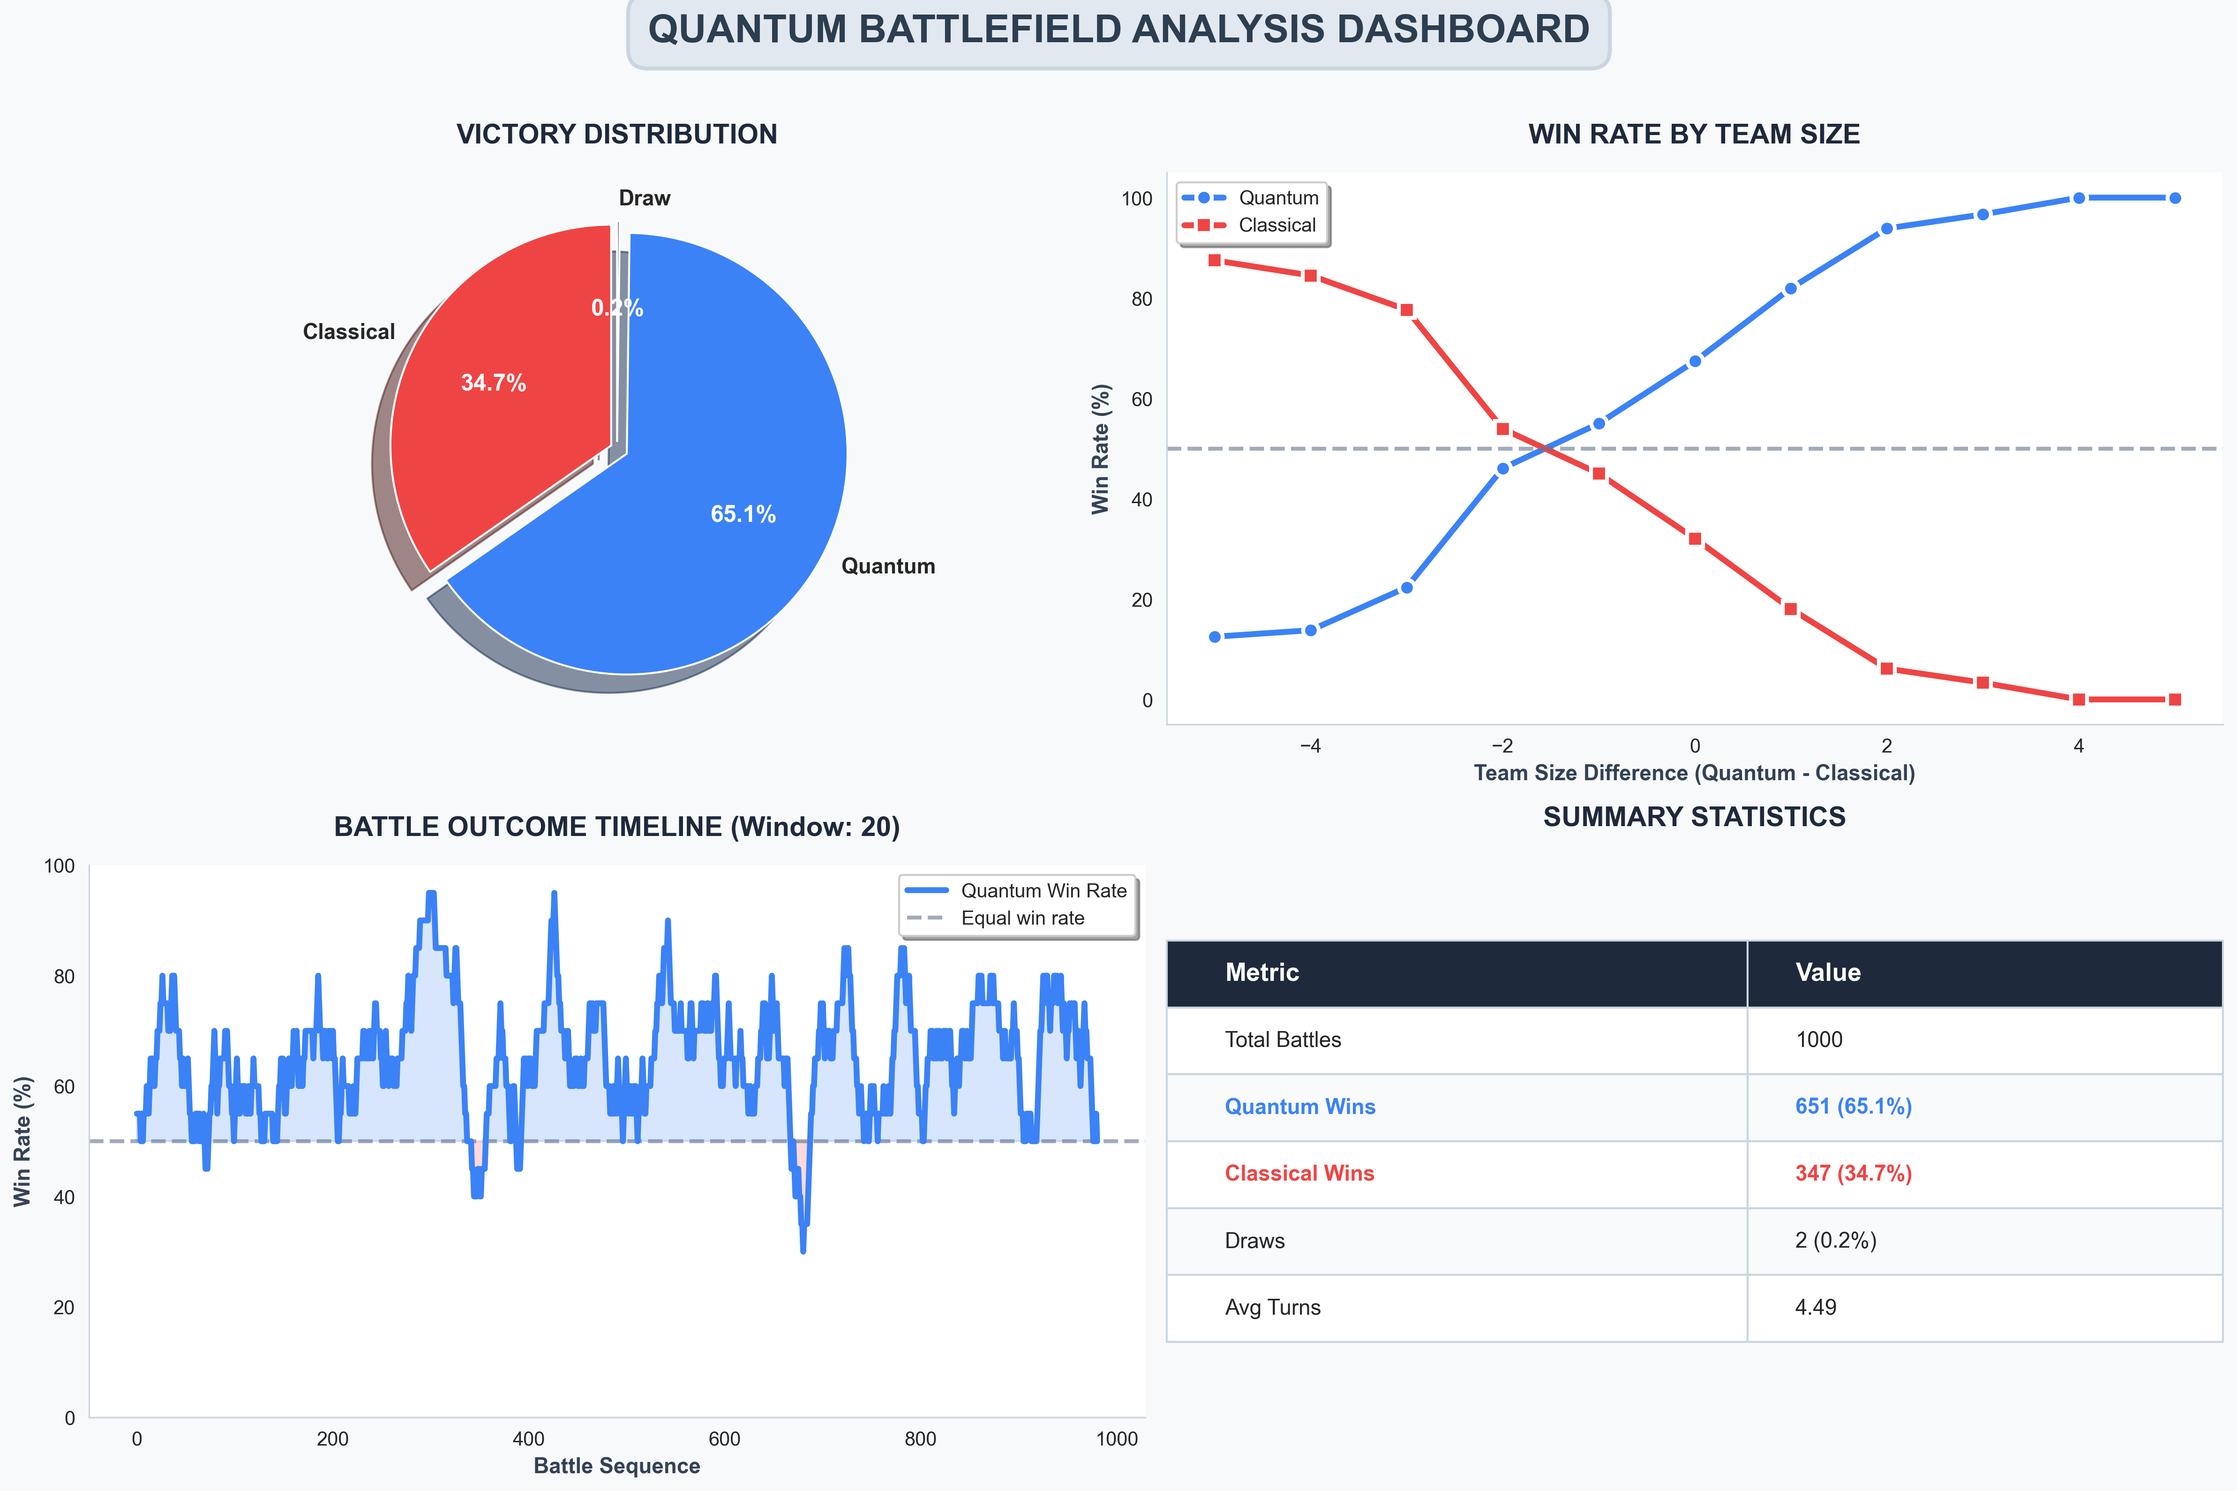
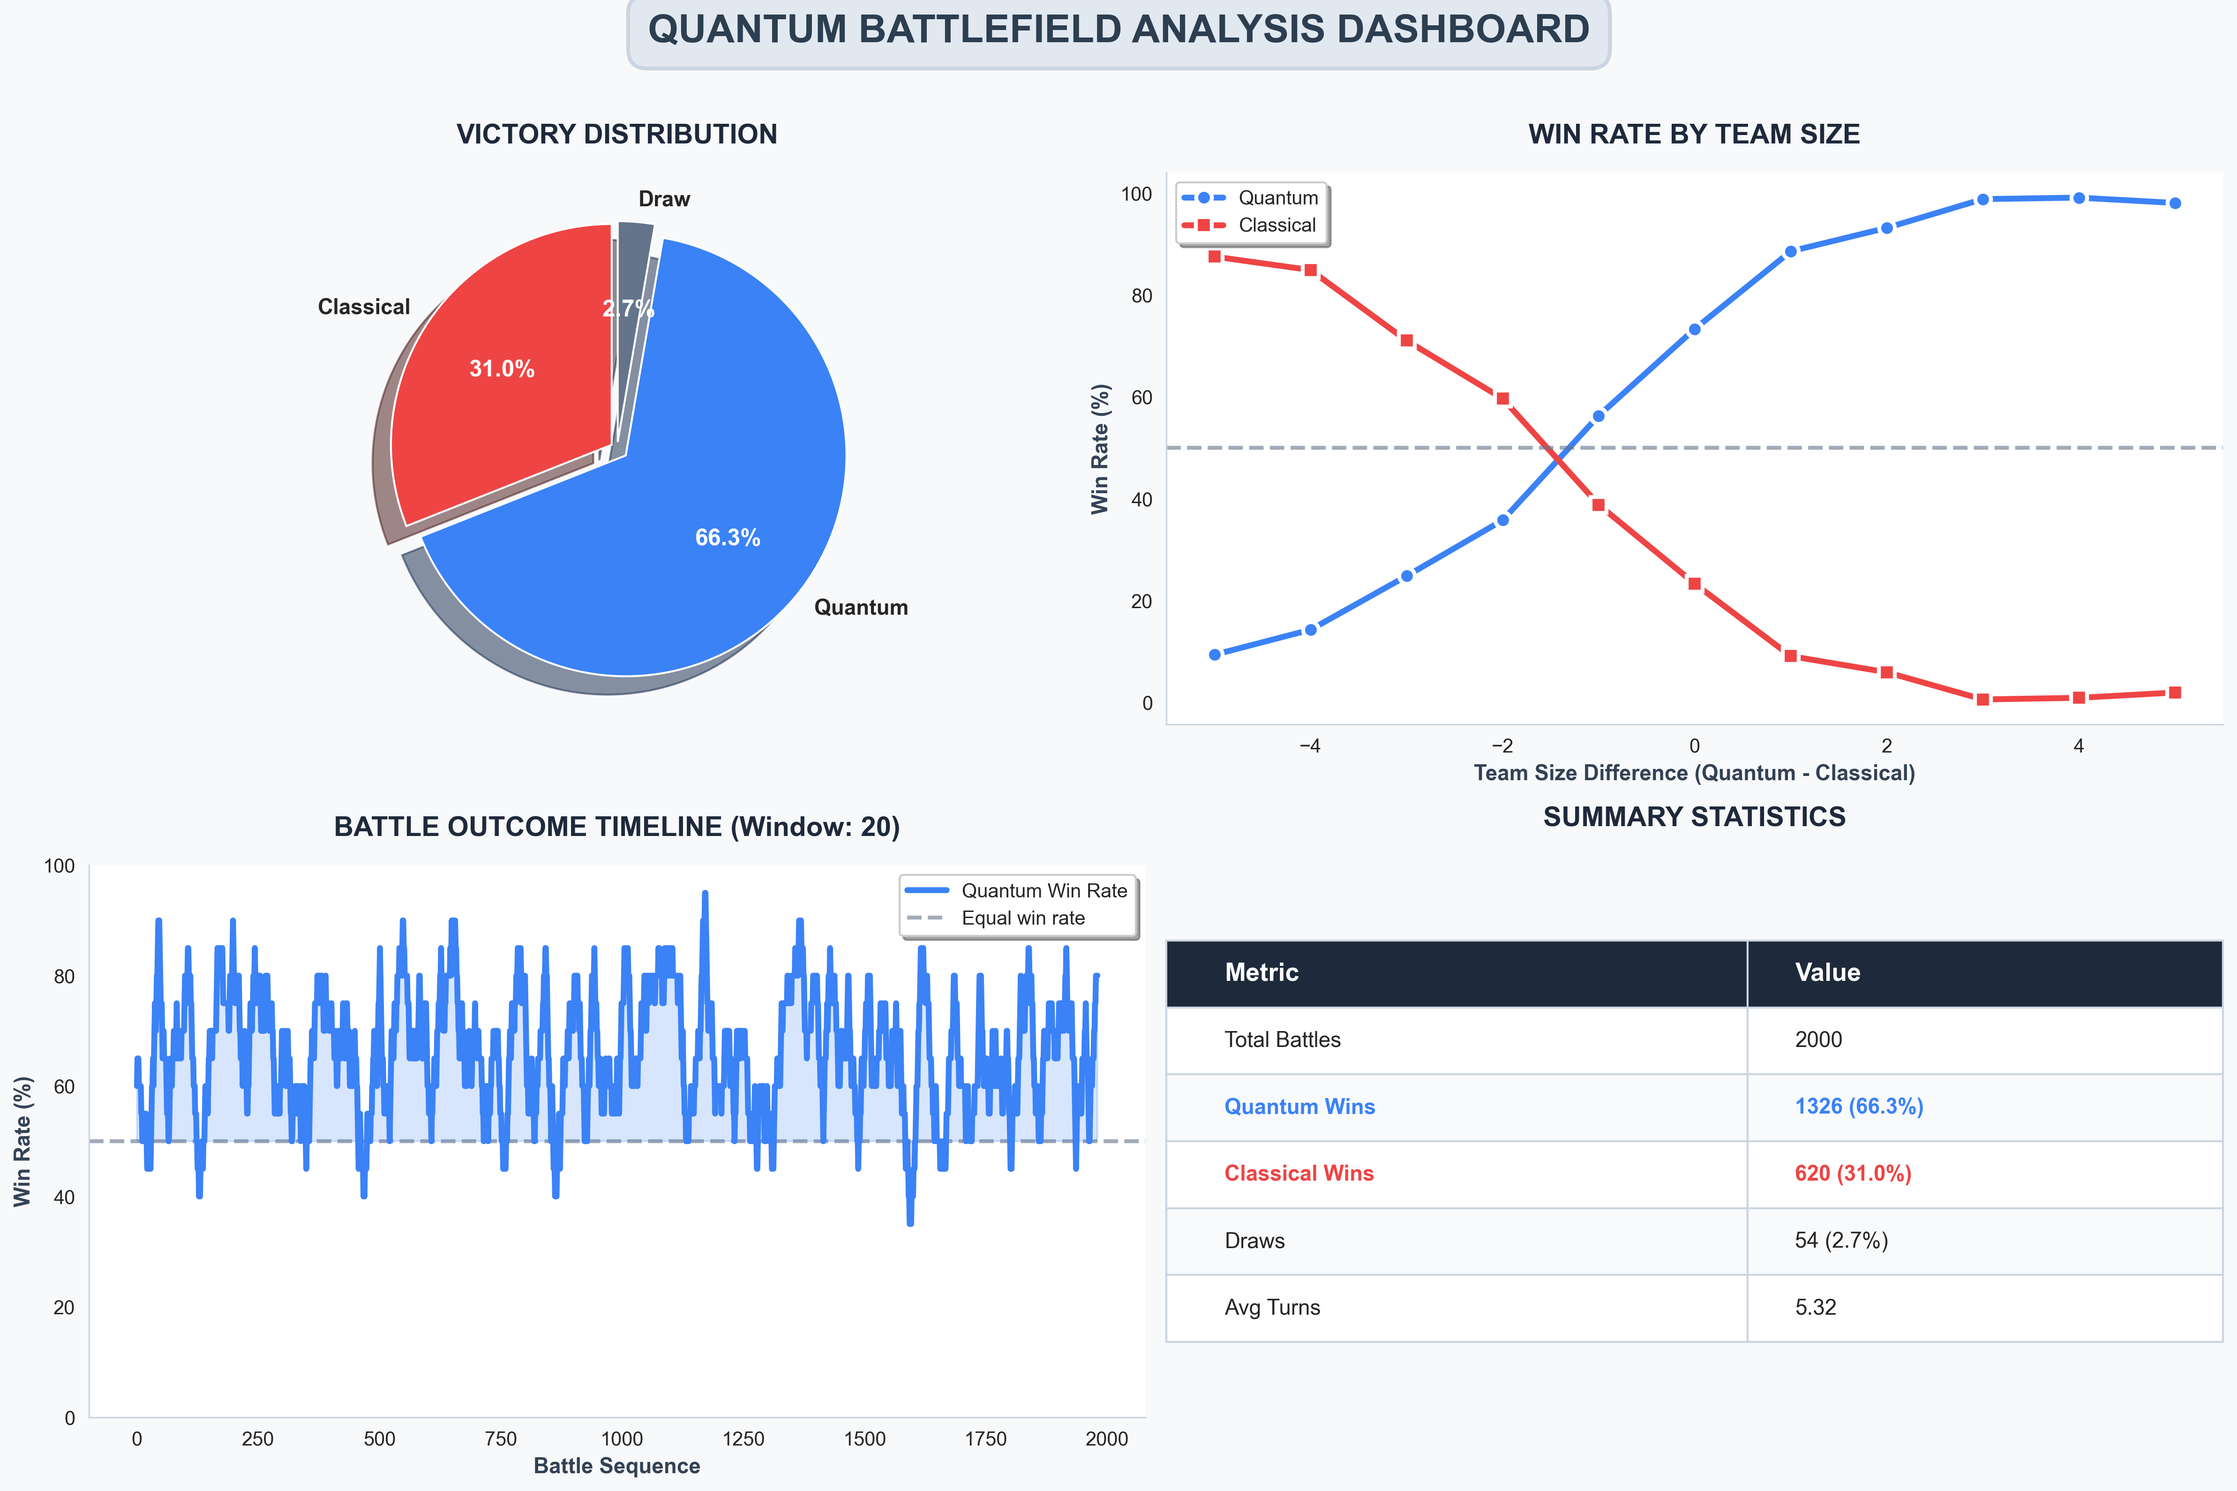
Stable version

diff --git a/quantum_library.py b/quantum_library.py
@@ -5,10 +5,13 @@ Replace this with actual quantum algorithm implementation.
 """
 
 import random
-from typing import List
+from typing import List, TYPE_CHECKING
 
-from battlefield import Soldier
+import numpy as np
+from itertools import combinations
 
+if TYPE_CHECKING:
+    from battlefield import Soldier
 
 def quantum_random_walk(current_position):
     """
@@ -24,19 +27,53 @@ ALGORITHMS = {
     'random_walk': quantum_random_walk,
 }
 
-def quantum_best_move(current_position, quantum_algorithm):
+def quantum_best_move(soldier: "Soldier", enemies: List["Soldier"], algorithm: str = "quantum_step") -> tuple:
     """
-    Dynamically selects and applies a specified quantum algorithm to determine the best move.
-    """
-    algorithm_func = ALGORITHMS.get(quantum_algorithm)
+    Determine the best move for a soldier using quantum algorithms.
 
-    if algorithm_func:
+    Builds the omega dictionary from H gradient values and uses quantum_step
+    to find the optimal move based on offensive/defensive positioning.
+
+    Args:
+        soldier: The soldier making the move.
+        enemies: List of enemy soldiers on the battlefield.
+        algorithm: Algorithm to use (default: "quantum_step").
+
+    Returns:
+        Tuple (new_x, new_y) with the new position.
+    """
+    if algorithm == "quantum_step":
+        # Calculate H gradients for all 4 cardinal directions
+        h_left = calculate_h_left(soldier, enemies)   # I (Izquierda)
+        h_right = calculate_h_right(soldier, enemies)  # D (Derecha)
+        h_up = calculate_h_up(soldier, enemies)        # + (Arriba)
+        h_down = calculate_h_down(soldier, enemies)    # - (Abajo)
+
+        # Build omega dictionary
+        # Negative gradient = more offensive direction (preferred)
+        # Positive gradient = more vulnerable direction (avoided)
+        omega = {
+            "I": int(h_left),   # Left (x-1)
+            "D": int(h_right),  # Right (x+1)
+            "+": int(h_up),     # Up (y+1)
+            "-": int(h_down)    # Down (y-1)
+        }
+
+        # Call quantum_step with current position and omega
+        new_x, new_y = quantum_step(soldier.x, soldier.y, omega)
+        return (new_x, new_y)
+
+    elif algorithm in ALGORITHMS:
+        # Fallback to legacy algorithms
+        current_position = (soldier.x, soldier.y)
+        algorithm_func = ALGORITHMS[algorithm]
         return algorithm_func(current_position)
+
     else:
-        raise ValueError(f"Unknown algorithm: {quantum_algorithm}. Available algorithms are: {list(ALGORITHMS.keys())}")
+        raise ValueError(f"Unknown algorithm: {algorithm}. Available: {list(ALGORITHMS.keys()) + ['quantum_step']}")
 
 # Calcular ofensiva y vulnerabilidad
-def calculate_offensive_power(soldier: Soldier, enemies: List[Soldier]) -> int:
+def calculate_offensive_power(soldier: "Soldier", enemies: List["Soldier"]) -> int:
     """
     Calculate the offensive power of a soldier towards enemies in range.
 
@@ -53,7 +90,7 @@ def calculate_offensive_power(soldier: Soldier, enemies: List[Soldier]) -> int:
             offensive_power += soldier.strength
     return offensive_power
 
-def calculate_vulnerability(soldier: Soldier, enemies: List[Soldier]) -> float:
+def calculate_vulnerability(soldier: "Soldier", enemies: List["Soldier"]) -> float:
     """
     Calculate the vulnerability of a soldier based on enemies' offensive power.
 
@@ -71,7 +108,7 @@ def calculate_vulnerability(soldier: Soldier, enemies: List[Soldier]) -> float:
     return vulnerability
 
 # Calcular las H
-def calculate_h_value(soldier: Soldier, enemies: List[Soldier]) -> float:
+def calculate_h_value(soldier: "Soldier", enemies: List["Soldier"]) -> float:
     """
     Calculate the h heuristic value for a soldier based on vulnerability vs offensive power.
 
@@ -94,7 +131,7 @@ def calculate_h_value(soldier: Soldier, enemies: List[Soldier]) -> float:
     return vulnerability - offensive
 
 # Calcular h arriba, que es la diferencia de calcular el valor h desplazando el valor de la variable y de nuestro soldado una casilla hacia arriba menos el valor de h sin desplazar ninguna variable.
-def calculate_h_up(soldier: Soldier, enemies: List[Soldier]) -> float:
+def calculate_h_up(soldier: "Soldier", enemies: List["Soldier"]) -> float:
     """
     Calculate the h gradient when moving up (y+1).
 
@@ -109,6 +146,8 @@ def calculate_h_up(soldier: Soldier, enemies: List[Soldier]) -> float:
     Returns:
         Gradient of h in the upward direction.
     """
+    from battlefield import Soldier
+
     # Calculate h at current position
     h_current = calculate_h_value(soldier, enemies)
 
@@ -130,7 +169,7 @@ def calculate_h_up(soldier: Soldier, enemies: List[Soldier]) -> float:
     # Return the difference
     return h_shifted - h_current
 
-def calculate_h_down(soldier: Soldier, enemies: List[Soldier]) -> float:
+def calculate_h_down(soldier: "Soldier", enemies: List["Soldier"]) -> float:
     """
     Calculate the h gradient when moving down (y-1).
 
@@ -143,6 +182,8 @@ def calculate_h_down(soldier: Soldier, enemies: List[Soldier]) -> float:
     Returns:
         Gradient of h in the downward direction.
     """
+    from battlefield import Soldier
+
     h_current = calculate_h_value(soldier, enemies)
 
     soldier_shifted = Soldier(
@@ -159,7 +200,7 @@ def calculate_h_down(soldier: Soldier, enemies: List[Soldier]) -> float:
     h_shifted = calculate_h_value(soldier_shifted, enemies)
     return h_shifted - h_current
 
-def calculate_h_left(soldier: Soldier, enemies: List[Soldier]) -> float:
+def calculate_h_left(soldier: "Soldier", enemies: List["Soldier"]) -> float:
     """
     Calculate the h gradient when moving left (x-1).
 
@@ -172,6 +213,8 @@ def calculate_h_left(soldier: Soldier, enemies: List[Soldier]) -> float:
     Returns:
         Gradient of h in the left direction.
     """
+    from battlefield import Soldier
+
     h_current = calculate_h_value(soldier, enemies)
 
     soldier_shifted = Soldier(
@@ -188,7 +231,7 @@ def calculate_h_left(soldier: Soldier, enemies: List[Soldier]) -> float:
     h_shifted = calculate_h_value(soldier_shifted, enemies)
     return h_shifted - h_current
 
-def calculate_h_right(soldier: Soldier, enemies: List[Soldier]) -> float:
+def calculate_h_right(soldier: "Soldier", enemies: List["Soldier"]) -> float:
     """
     Calculate the h gradient when moving right (x+1).
 
@@ -201,6 +244,8 @@ def calculate_h_right(soldier: Soldier, enemies: List[Soldier]) -> float:
     Returns:
         Gradient of h in the right direction.
     """
+    from battlefield import Soldier
+
     h_current = calculate_h_value(soldier, enemies)
 
     soldier_shifted = Soldier(
@@ -217,7 +262,7 @@ def calculate_h_right(soldier: Soldier, enemies: List[Soldier]) -> float:
     h_shifted = calculate_h_value(soldier_shifted, enemies)
     return h_shifted - h_current
 
-def calculate_h_right_up(soldier: Soldier, enemies: List[Soldier]) -> float:
+def calculate_h_right_up(soldier: "Soldier", enemies: List["Soldier"]) -> float:
     """
     Calculate the h gradient when moving diagonally right-up (x+1, y+1).
 
@@ -230,6 +275,8 @@ def calculate_h_right_up(soldier: Soldier, enemies: List[Soldier]) -> float:
     Returns:
         Gradient of h in the right-up diagonal direction.
     """
+    from battlefield import Soldier
+
     h_current = calculate_h_value(soldier, enemies)
 
     soldier_shifted = Soldier(
@@ -246,7 +293,7 @@ def calculate_h_right_up(soldier: Soldier, enemies: List[Soldier]) -> float:
     h_shifted = calculate_h_value(soldier_shifted, enemies)
     return h_shifted - h_current
 
-def calculate_h_right_down(soldier: Soldier, enemies: List[Soldier]) -> float:
+def calculate_h_right_down(soldier: "Soldier", enemies: List["Soldier"]) -> float:
     """
     Calculate the h gradient when moving diagonally right-down (x+1, y-1).
 
@@ -259,6 +306,8 @@ def calculate_h_right_down(soldier: Soldier, enemies: List[Soldier]) -> float:
     Returns:
         Gradient of h in the right-down diagonal direction.
     """
+    from battlefield import Soldier
+
     h_current = calculate_h_value(soldier, enemies)
 
     soldier_shifted = Soldier(
@@ -275,7 +324,7 @@ def calculate_h_right_down(soldier: Soldier, enemies: List[Soldier]) -> float:
     h_shifted = calculate_h_value(soldier_shifted, enemies)
     return h_shifted - h_current
 
-def calculate_h_left_up(soldier: Soldier, enemies: List[Soldier]) -> float:
+def calculate_h_left_up(soldier: "Soldier", enemies: List["Soldier"]) -> float:
     """
     Calculate the h gradient when moving diagonally left-up (x-1, y+1).
 
@@ -288,6 +337,8 @@ def calculate_h_left_up(soldier: Soldier, enemies: List[Soldier]) -> float:
     Returns:
         Gradient of h in the left-up diagonal direction.
     """
+    from battlefield import Soldier
+
     h_current = calculate_h_value(soldier, enemies)
 
     soldier_shifted = Soldier(
@@ -304,7 +355,7 @@ def calculate_h_left_up(soldier: Soldier, enemies: List[Soldier]) -> float:
     h_shifted = calculate_h_value(soldier_shifted, enemies)
     return h_shifted - h_current
 
-def calculate_h_left_down(soldier: Soldier, enemies: List[Soldier]) -> float:
+def calculate_h_left_down(soldier: "Soldier", enemies: List["Soldier"]) -> float:
     """
     Calculate the h gradient when moving diagonally left-down (x-1, y-1).
 
@@ -317,6 +368,8 @@ def calculate_h_left_down(soldier: Soldier, enemies: List[Soldier]) -> float:
     Returns:
         Gradient of h in the left-down diagonal direction.
     """
+    from battlefield import Soldier
+
     h_current = calculate_h_value(soldier, enemies)
 
     soldier_shifted = Soldier(
@@ -332,3 +385,130 @@ def calculate_h_left_down(soldier: Soldier, enemies: List[Soldier]) -> float:
 
     h_shifted = calculate_h_value(soldier_shifted, enemies)
     return h_shifted - h_current
+
+# ----------------------------
+# Pauli matrices
+# ----------------------------
+I2 = np.eye(2, dtype=complex)
+X  = np.array([[0, 1],
+               [1, 0]], dtype=complex)
+Z  = np.array([[1,  0],
+               [0, -1]], dtype=complex)
+
+def kron_n(ops):
+    out = ops[0]
+    for op in ops[1:]:
+        out = np.kron(out, op)
+    return out
+
+def one_body(n, i, op):
+    ops = [I2] * n
+    ops[i] = op
+    return kron_n(ops)
+
+def two_body(n, i, j, op_i, op_j):
+    ops = [I2] * n
+    ops[i] = op_i
+    ops[j] = op_j
+    return kron_n(ops)
+
+def projector_11(n, i, j):
+    """
+    Projector onto |11> on qubits (i,j):
+    P_11 = (1/4)(I - Z_i - Z_j + Z_i Z_j)
+    Penalizes ONLY the |11> state in the computational basis.
+    """
+    dim = 2**n
+    I_full = np.eye(dim, dtype=complex)
+    Zi = one_body(n, i, Z)
+    Zj = one_body(n, j, Z)
+    ZiZj = two_body(n, i, j, Z, Z)
+    return 0.25 * (I_full - Zi - Zj + ZiZj)
+
+# =========================================================
+# MAIN FUNCTION YOU ASKED FOR
+# =========================================================
+def quantum_step(x, y, omega, seed=42, K_ID=1000, K_pm=1000):
+    """
+    Perform one quantum decision step.
+
+    Inputs:
+      x, y   : current position (ints)
+      omega  : dict { "I","D","+","-" : int }
+      seed   : RNG seed for J couplings
+      K_ID   : penalty for I=D=1
+      K_pm   : penalty for +=-=1
+
+    Returns:
+      new_x, new_y
+    """
+
+    # ----------------------------
+    # Spin labels and indexing
+    # ----------------------------
+    labels = ["I", "D", "+", "-"]
+    n = len(labels)
+    idx = {lab: i for i, lab in enumerate(labels)}
+
+    # ----------------------------
+    # Random XX couplings
+    # ----------------------------
+    rng = np.random.default_rng(seed)
+    J = {}
+    for a, b in combinations(labels, 2):
+        J[(a, b)] = 0
+
+    # ----------------------------
+    # Build Hamiltonian
+    # ----------------------------
+    dim = 2**n
+    H = np.zeros((dim, dim), dtype=complex)
+
+    # Z fields
+    for a in labels:
+        H += omega[a] * one_body(n, idx[a], Z)
+
+    # XX interactions
+    for a, b in combinations(labels, 2):
+        ia, ib = idx[a], idx[b]
+        H += J[(a, b)] * two_body(n, ia, ib, X, X)
+
+    # Constraint penalties
+    H += K_ID * projector_11(n, idx["I"], idx["D"])
+    H += K_pm * projector_11(n, idx["+"], idx["-"])
+
+    # ----------------------------
+    # Diagonalize
+    # ----------------------------
+    evals, evecs = np.linalg.eigh(H)
+    psi0 = evecs[:, 0]
+
+    # ----------------------------
+    # MOST LIKELY BITSTRING (MAP)
+    # ----------------------------
+    probs = np.abs(psi0)**2
+    k_map = int(np.argmax(probs))
+    bit_map = format(k_map, "04b")  # |I D + ->
+    p_map = probs[k_map]
+
+    # ----------------------------
+    # INTERPRET BITSTRING AS (x, y) MOVE
+    # ----------------------------
+    I_bit, D_bit, plus_bit, minus_bit = map(int, bit_map)
+
+    new_x, new_y = x, y
+    if I_bit == 1:
+        new_x -= 1
+    if D_bit == 1:
+        new_x += 1
+    if plus_bit == 1:
+        new_y += 1
+    if minus_bit == 1:
+        new_y -= 1
+
+    # Optional debug output
+    #print("\nQuantum step:")
+    #print(f"  MAP bitstring = |{bit_map}>  (p = {p_map:.6f})")
+    #print(f"  (x, y) : ({x}, {y}) → ({new_x}, {new_y})")
+
+    return new_x, new_y

diff --git a/battlefield.py b/battlefield.py
@@ -5,7 +5,7 @@ import random
 
 import quantum_library as qlib # Import your own quantum library
 
-quantum_algorithm = "random_walk"
+quantum_algorithm = "quantum_step" # quantum_step, random_walk
 
 @dataclass
 class Soldier:
@@ -109,13 +109,12 @@ class QuantumBattlefield:
         for soldier in self.soldiers:
             if not soldier.is_alive():
                 continue
-            
-            current_pos = (soldier.x, soldier.y)
+
             if soldier.team == "Quantum":
-                # take the best posible move
-                # the function must return a tuple best_move = (x,y) based on the current position of the soldier
-                # it can accept any desired extra argument
-                best_move = qlib.quantum_best_move(current_pos, quantum_algorithm)
+                # Get list of enemy soldiers
+                enemies = [s for s in self.soldiers if s.team != soldier.team and s.is_alive()]
+                # Use quantum algorithm with H gradients
+                best_move = qlib.quantum_best_move(soldier, enemies, quantum_algorithm)
             else:
                 # the classical team moves using random walks
                 best_move = (random.randint(-1, 1), random.randint(-1, 1))
